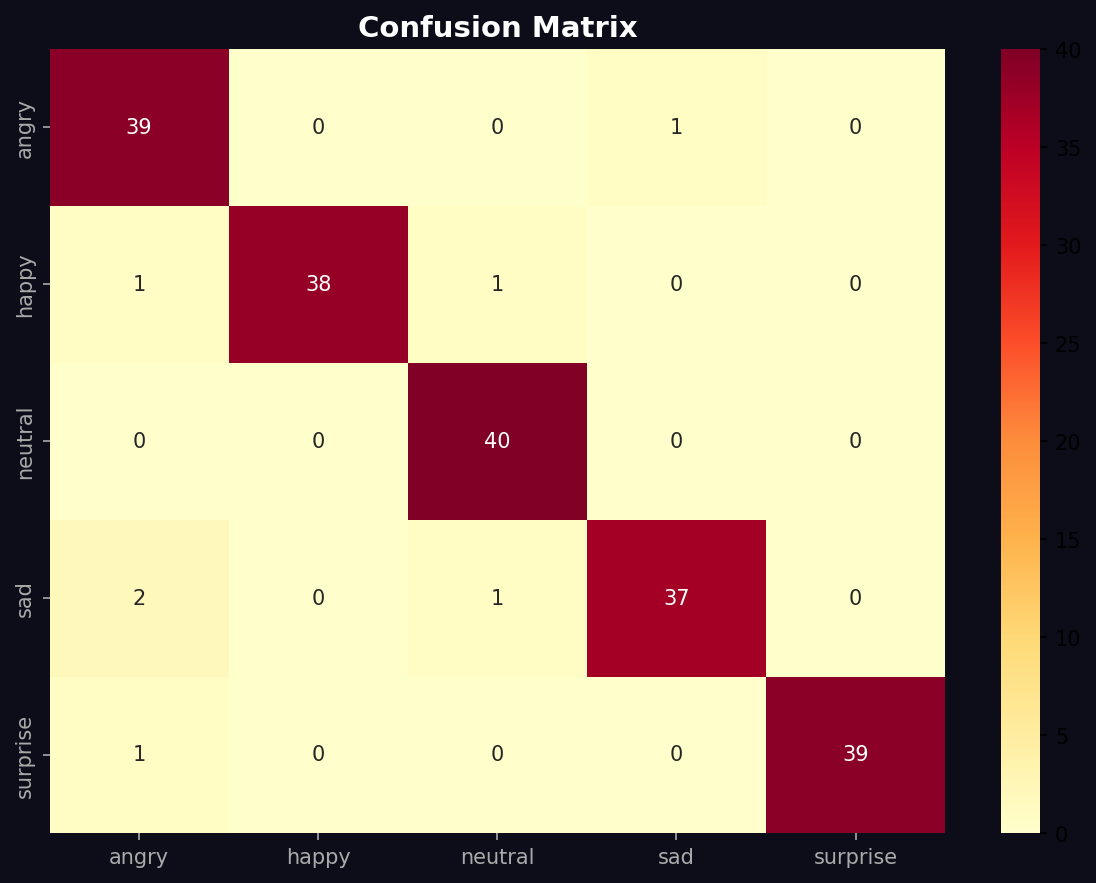
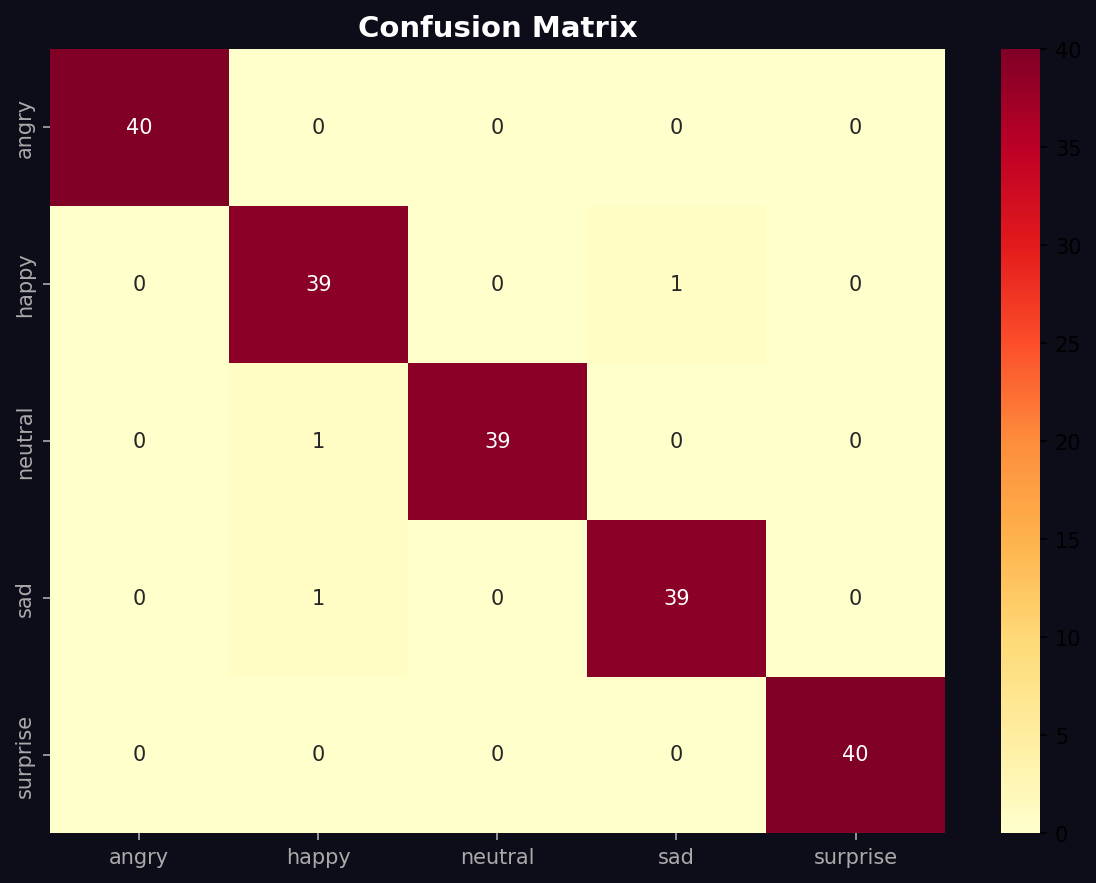
some updates for login

diff --git a/app.py b/app.py
@@ -115,6 +115,8 @@ def login_page():
     if 'user_email' in session:
         return redirect(url_for('index'))
 
+    csrf = session.get('csrf_token') or generate_csrf()
+
     if request.method == 'POST':
         if not validate_csrf(request.form.get('csrf_token', '')):
             flash('Invalid request. Please try again.', 'error')
@@ -144,13 +146,14 @@ def login_page():
         session.pop('csrf_token', None)
         return redirect(url_for('index'))
 
-    csrf = session.get('csrf_token') or generate_csrf()
     return render_template('login.html', csrf_token=csrf)
 
 
 @app.route('/register', methods=['POST'])
 def register():
     """Handle new user registration."""
+    csrf = session.get('csrf_token') or generate_csrf()
+
     if not validate_csrf(request.form.get('csrf_token', '')):
         flash('Invalid request. Please try again.', 'error')
         return redirect(url_for('login_page'))
